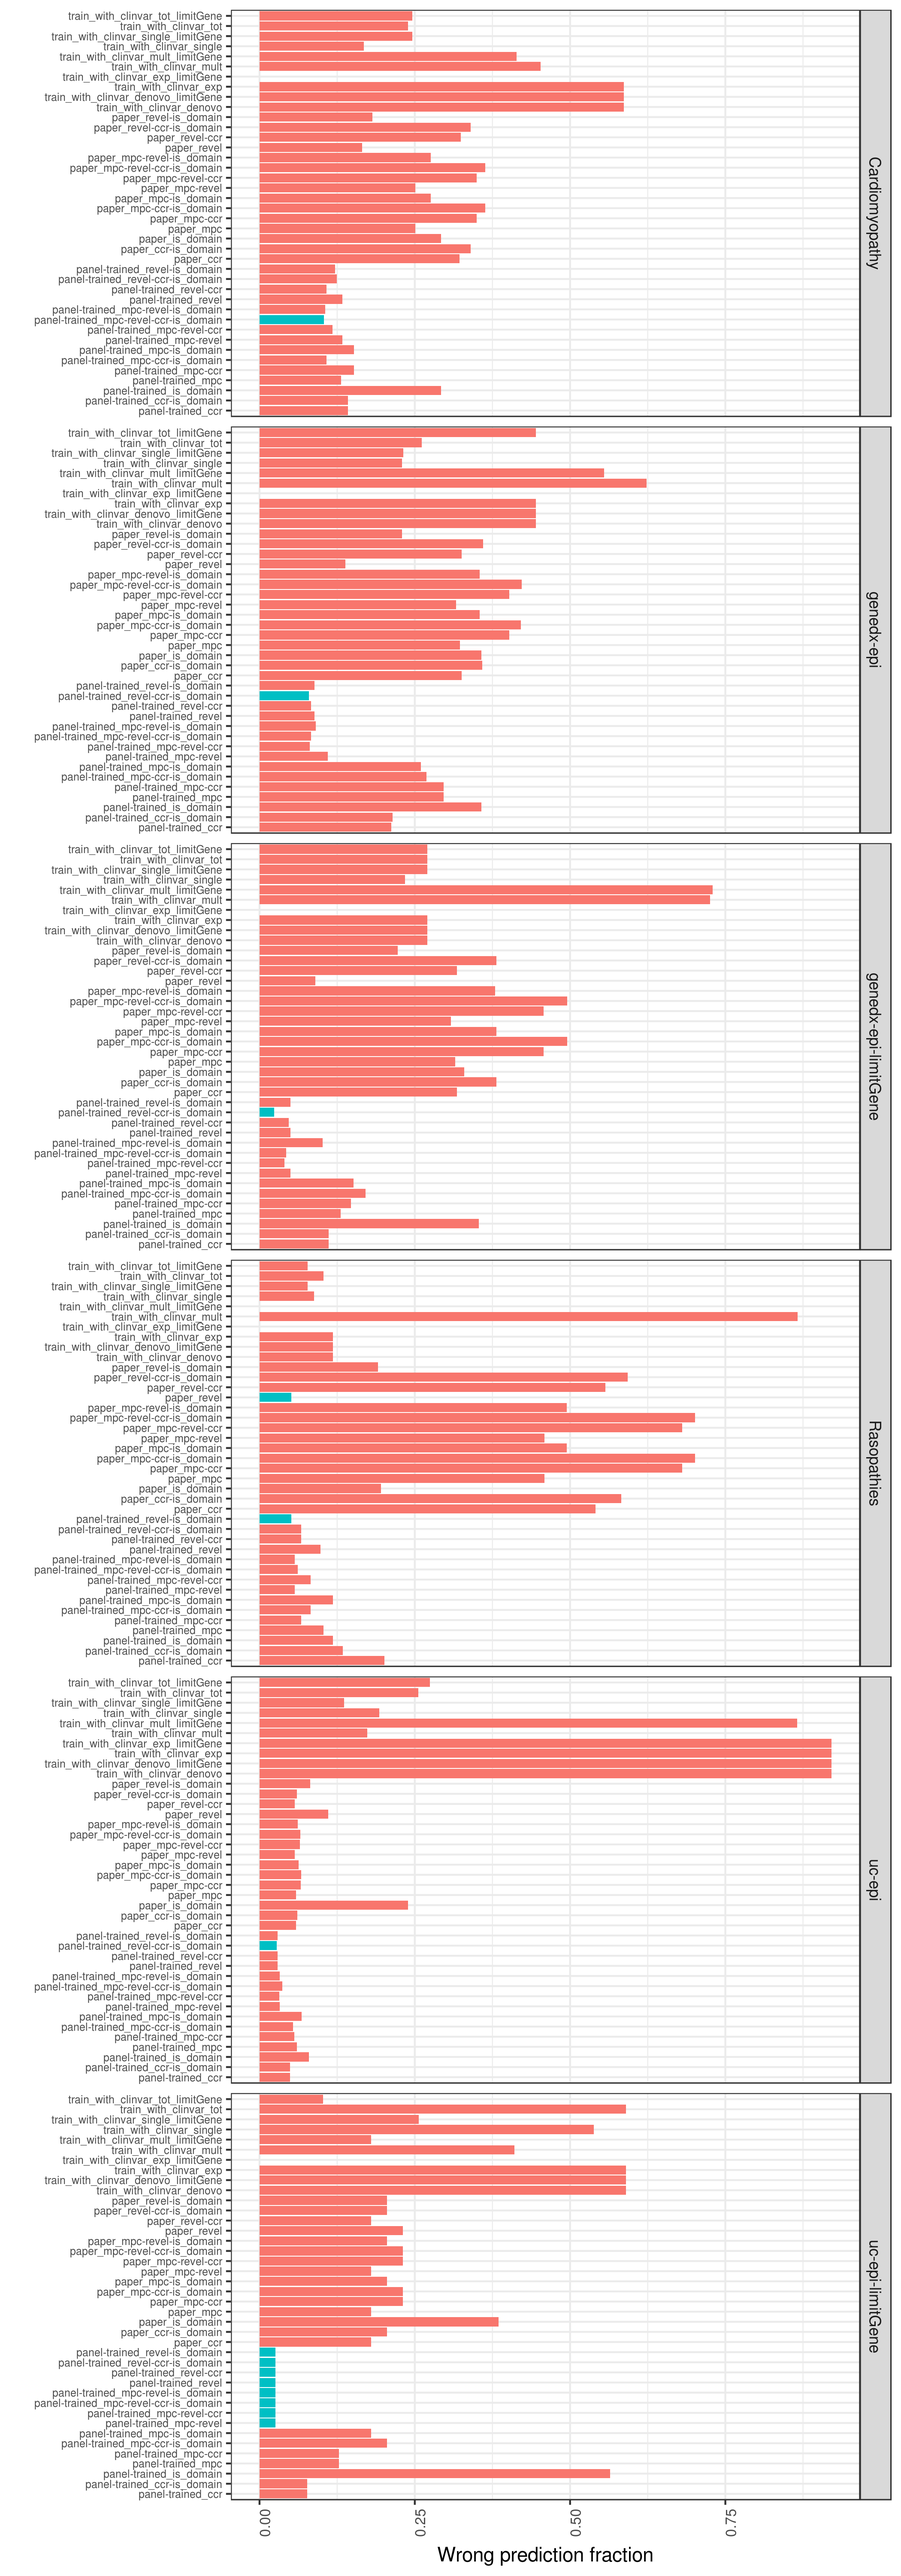
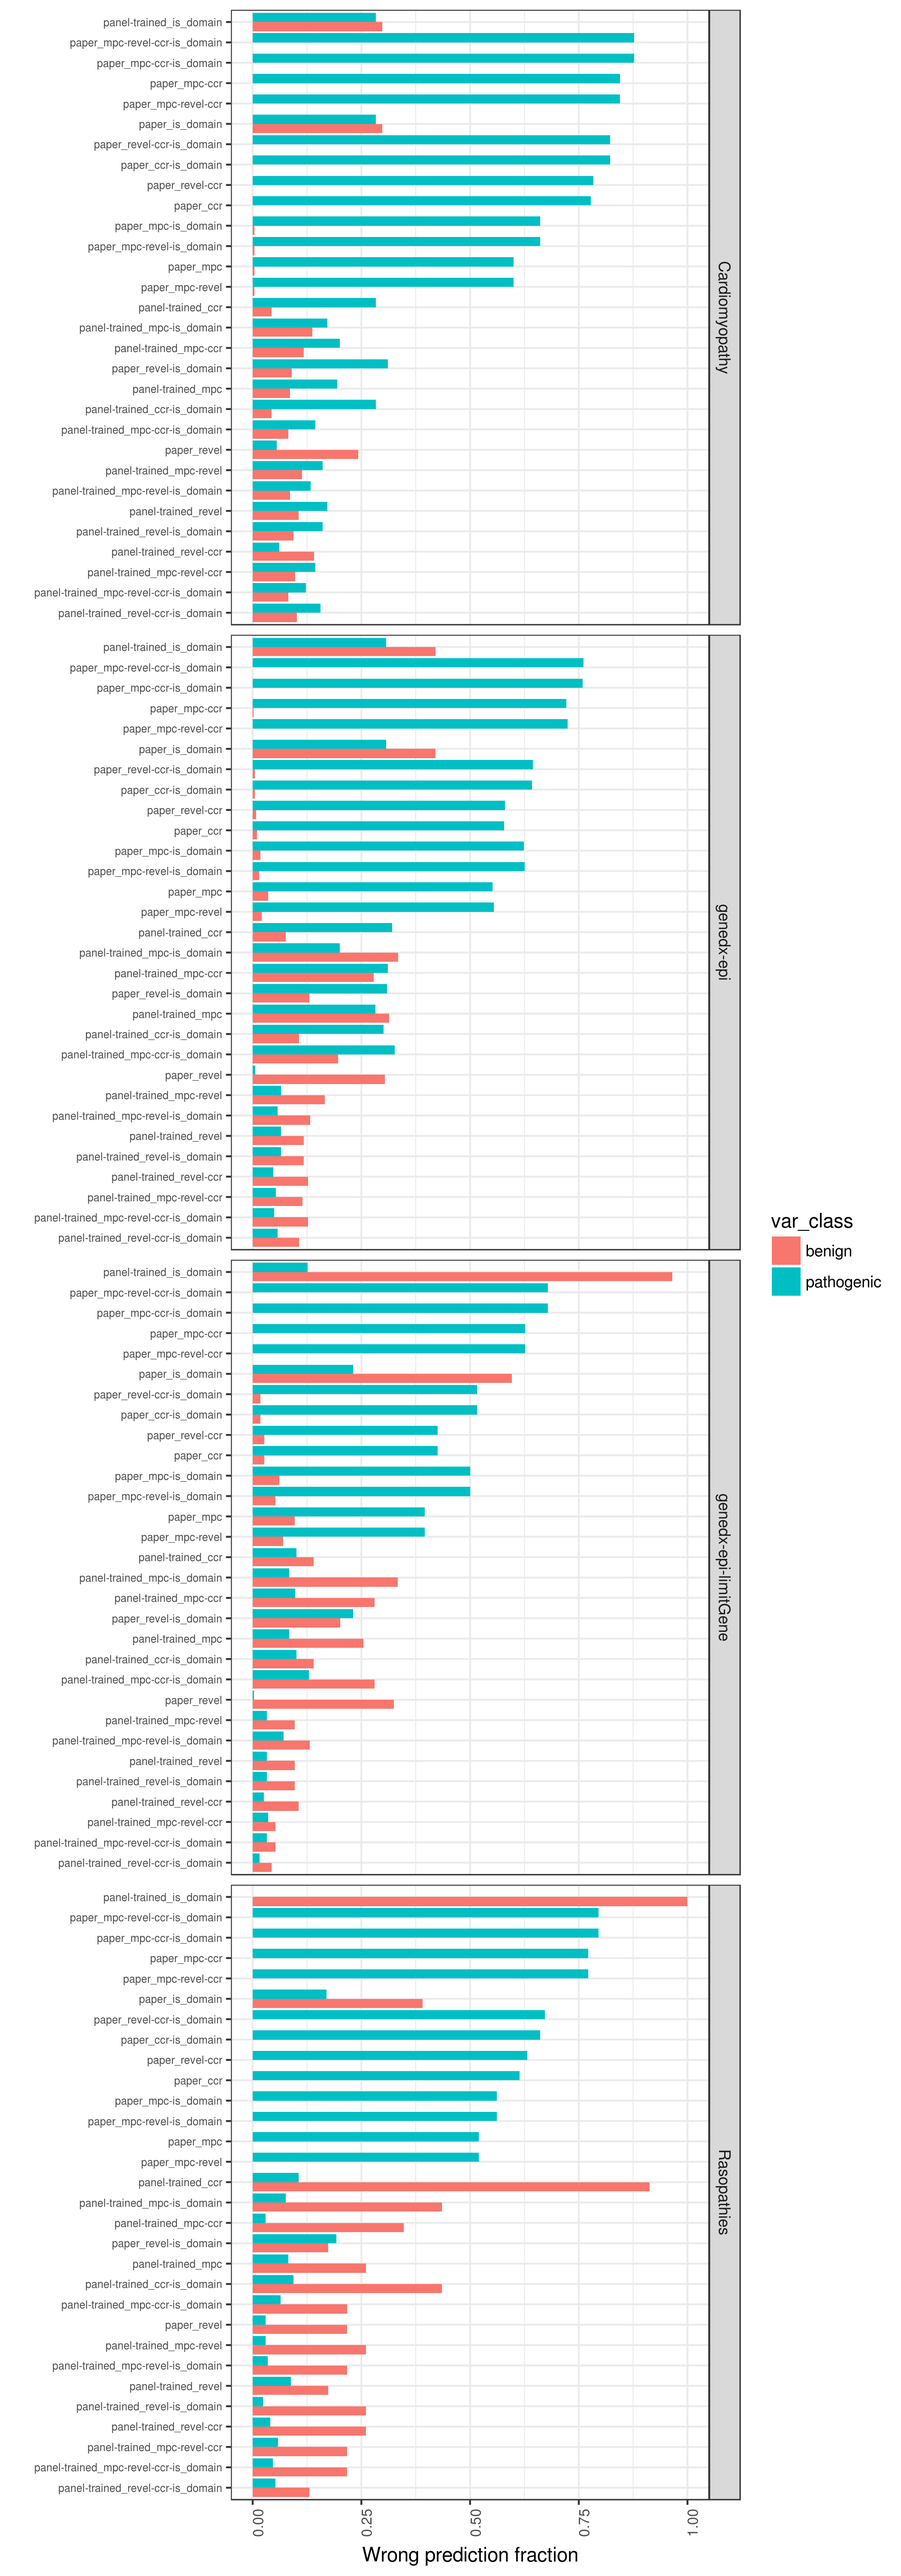
Closes #28. Split eval of pathogenic and benign.

Changed region(s): [[0.2786, 0.0, 0.9905, 0.9973], [0.0619, 0.0, 0.2476, 0.9662]]

diff --git a/src/rules/sf_eval_ahmad.py b/src/rules/sf_eval_ahmad.py
@@ -5,13 +5,33 @@ import pandas as pd
 #include: "sf_eval_non_panel.py"
 
 rule ahmad_percent_wrong:
-    input:  panel = WORK + '{method}.eval_panel.{cols}.eval',
+    input:  panel = WORK + '{method}.eval_panel.{cols}.eval'
     output: o = WORK + '{method}.{cols}.eval_panel.eval.percentWrong'
     run:
         def calc_wrong_percent(rows):
             tot_wrong = list(rows[rows.eval_type == 'TotWrong']['var_count'].values)[0]
             tot_preds = sum(rows[rows.eval_type != 'TotWrong']['var_count'])
             return tot_wrong/tot_preds
+
+        def calc_wrong_percent_benign(rows):
+            tot_preds = sum(rows[ (rows.eval_type=='WrongBenign') | (rows.eval_type=='CorrectBenign')]['var_count'].values)
+            ls = list(rows[rows.eval_type == 'WrongBenign']['var_count'].values)
+            if ls:
+                wrong_preds = ls[0]
+            else:
+                wrong_preds = 0
+            return wrong_preds/tot_preds
+
+        def calc_wrong_percent_path(rows):
+            tot_preds = sum( rows[ (rows.eval_type=='WrongPath') | (rows.eval_type=='CorrectPath')]['var_count'].values )
+            ls = list(rows[rows.eval_type == 'WrongPath']['var_count'].values)
+
+            if ls:
+                wrong_preds = ls[0]
+            else:
+                wrong_preds = 0
+
+            return wrong_preds/tot_preds
 
         def load_other_df(afile):
             panel_df = (pd.read_csv(afile, sep='\t')
@@ -51,20 +71,37 @@ rule ahmad_percent_wrong:
                     i = 1/0
             return disease
 
-        panel_df = (pd.read_csv(input.panel, sep='\t')
-                    .groupby(('disease', 'score_type'))
-                    .apply(calc_wrong_percent)
-                    .reset_index()
-                    .rename(columns={0:'percent_wrong'}) )
+        # panel_df = (pd.read_csv(input.panel, sep='\t')
+        #             .groupby(('disease', 'score_type'))
+        #             .apply(calc_wrong_percent)
+        #             .reset_index()
+        #             .rename(columns={0:'percent_wrong'}) )
+
+        panel_df_benign = (pd.read_csv(input.panel, sep='\t')
+                           .groupby(('disease', 'score_type'))
+                           .apply(calc_wrong_percent_benign)
+                           .reset_index()
+                           .rename(columns={0:'percent_wrong'}) )
+        panel_df_benign['var_class'] = 'benign'
+        panel_df_path= (pd.read_csv(input.panel, sep='\t')
+                        .groupby(('disease', 'score_type'))
+                        .apply(calc_wrong_percent_path)
+                        .reset_index()
+                        .rename(columns={0:'percent_wrong'}) )
+        panel_df_path['var_class'] = 'pathogenic'
+
+        panel_df = pd.concat([panel_df_path, panel_df_benign])
         panel_df['color'] = 'predict_panel'
         m = panel_df
         m.loc[:, 'st'] = m.apply(lambda row: rename_score(row['score_type']), axis=1)
         m.loc[:, 'dis'] = m.apply(lambda row: rename_disease(row['disease'], row['score_type']), axis=1)
         crit = m.apply(lambda row: not row['disease'] in ('ALL',)
+                       and not 'uc' in row['disease']
                        and not 'earing' in row['disease']
                        and not 'issue' in row['disease']
                        and not ('no_disease' == row['disease'] and '>2' in row['score_type'])
-                       and row['color'] != 'predict clinvar',
+                       and row['color'] != 'predict clinvar'
+                       and not 'clinvar' in row['score_type'],
                        axis=1)
         m[crit].to_csv(output.o, index=False, sep='\t')
 
@@ -72,8 +109,8 @@ rule concat_extra:
     input:  expand( WORK + 'global.{cols}.eval_panel.eval.percentWrong', cols=COMBO_FEATS)
     output: o = WORK + 'cc'
     run:
-        m = pd.concat([pd.read_csv(afile, sep='\t') for afile in list(input)]).drop_duplicates(subset=['color', 'disease', 'score_type', 'st', 'dis'])
-        print( m[['dis', 'percent_wrong']].groupby('dis').apply(min) )
+        m = pd.concat([pd.read_csv(afile, sep='\t') for afile in list(input)]).drop_duplicates(subset=['color', 'disease', 'score_type', 'st', 'dis', 'var_class'])
+        #print( m[['dis', 'percent_wrong']].groupby('dis').apply(min) )
         min_df = m[['dis', 'percent_wrong']].groupby('dis').apply(min).rename(columns={'dis':'dis_junk', 'percent_wrong':'min'}).reset_index()
         d = pd.merge(m, min_df, on='dis', how='left')
         d.loc[:, 'min_color'] = d.apply(lambda row: row['percent_wrong']==row['min'], axis=1)
@@ -81,15 +118,15 @@ rule concat_extra:
 
 rule concat_extra_gene:
     input:  expand( WORK + 'global.{cols}.eval_panel.eval.percentWrong', cols=COMBO_FEATS)
-    output: o = WORK + 'cc'
+    output: o = WORK + 'cc.gene'
     run:
-        m = pd.concat([pd.read_csv(afile, sep='\t') for afile in list(input)]).drop_duplicates(subset=['color', 'disease', 'score_type', 'st', 'dis'])
-        print( m[['dis', 'percent_wrong']].groupby('dis').apply(min) )
+        m = pd.concat([pd.read_csv(afile, sep='\t') for afile in list(input)]).drop_duplicates(subset=['color', 'disease', 'score_type', 'st', 'dis', 'var_class'])
+        #print( m[['dis', 'percent_wrong']].groupby('dis').apply(min) )
         min_df = m[['dis', 'percent_wrong']].groupby('dis').apply(min).rename(columns={'dis':'dis_junk', 'percent_wrong':'min'}).reset_index()
         d = pd.merge(m, min_df, on='dis', how='left')
         d.loc[:, 'min_color'] = d.apply(lambda row: row['percent_wrong']==row['min'], axis=1)
         d.to_csv(output.o, sep='\t', index=False)
-
+#theme(legend.position="none") 
 rule plot_ahmad:
     input:  WORK + 'cc'
     output: DOCS + 'plot/global.byDisease.png'
@@ -98,10 +135,10 @@ rule plot_ahmad:
           require(ggplot2)
           d = read.delim("{input}", sep='\t', header=TRUE)
           p = ggplot(data=d) +
-          geom_col(aes(y=percent_wrong, x=st, fill=min_color)) +
+          geom_col(aes(y=percent_wrong, x=reorder(st, percent_wrong), fill=var_class), position="dodge") +
           facet_grid(dis~.) + theme_bw() +
           theme(axis.text.x = element_text(angle=90, hjust=1, size=8)) +
           ylab('Wrong prediction fraction') +
-          xlab('') + theme(legend.position="none") + coord_flip() + theme(axis.text.y = element_text(size=6))
+          xlab('') + coord_flip() + theme(axis.text.y = element_text(size=6))
           ggsave("{output}", p, height=20)
           """)
